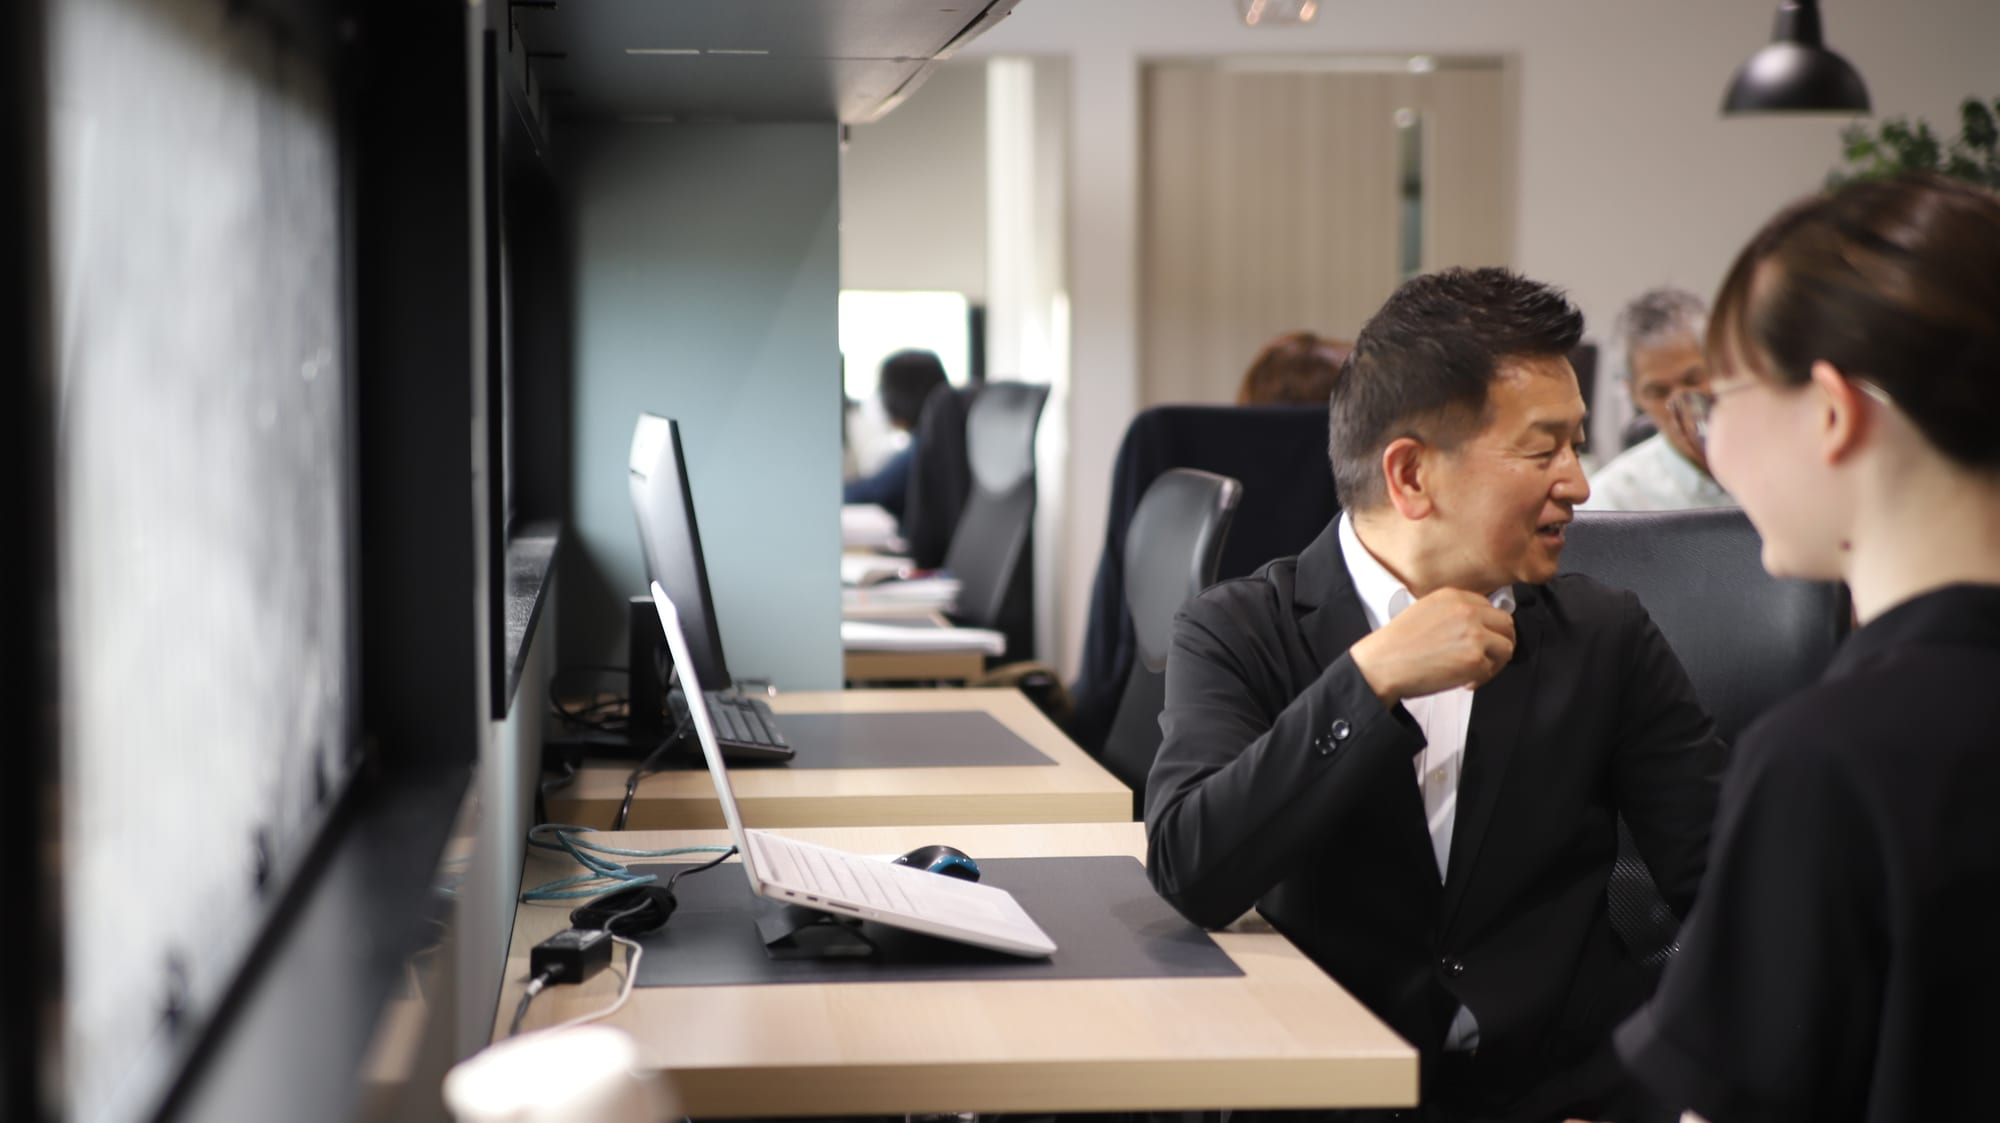
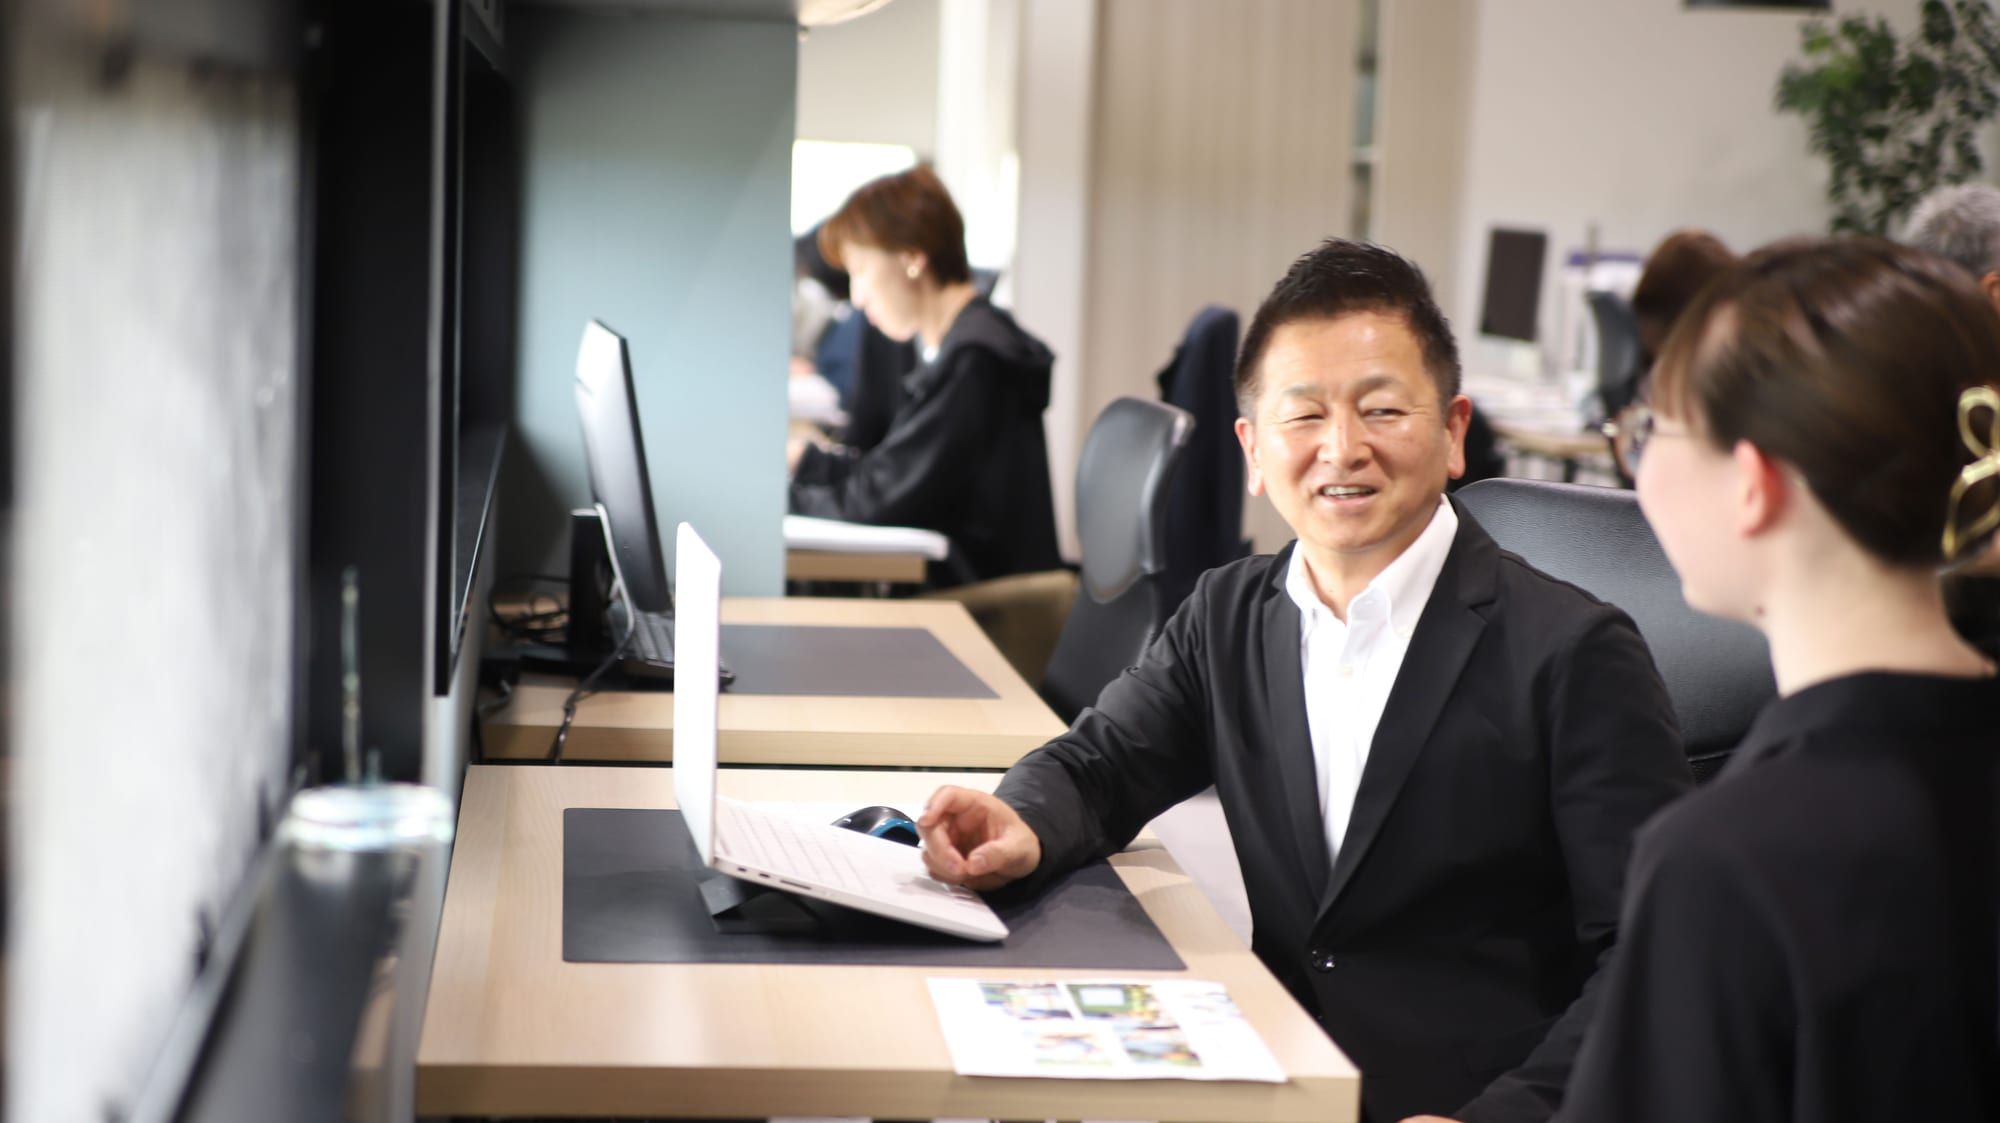
会社「社員の様子」スライダーの画像差し替えとFV1枚目の差し替え
- Home 03「社員の様子」スライダーを新規7枚(company-slide-1〜7)に変更
  (07採用セクションの画像は従来通り維持)
- FV 1枚目(fv-1.jpg)を新カットに差し替え
- 画像はWeb用に最適化(幅2000px/1000px, JPEG q82)

diff --git a/src/app/pages/Home.tsx b/src/app/pages/Home.tsx
@@ -8,11 +8,29 @@ import fvImage3 from "../../assets/fv-3.jpg";
 import companyImage1 from "../../assets/2723acada69546ad44390f5e3d6b8730eb9c9744.png";
 import companyImage2 from "../../assets/e6f7b37fca2d865e3f35dae1ac050a9f0649c3e5.png";
 import companyImage3 from "../../assets/20381856004e60259556c5cc5cb1eaa849237729.png";
+import companySlide1 from "../../assets/company-slide-1.jpg";
+import companySlide2 from "../../assets/company-slide-2.jpg";
+import companySlide3 from "../../assets/company-slide-3.jpg";
+import companySlide4 from "../../assets/company-slide-4.jpg";
+import companySlide5 from "../../assets/company-slide-5.jpg";
+import companySlide6 from "../../assets/company-slide-6.jpg";
+import companySlide7 from "../../assets/company-slide-7.jpg";
 import { contentItems, contentCategories, getCategoryColor } from "../data/contents";
 import Link from "next/link";
 
 // FV Slideshow images
 const slideshowImages = [fvImage1, fvImage2, fvImage3];
+
+// Company section (03) slider images
+const companySlideImages = [
+  { img: companySlide1, width: 440 },
+  { img: companySlide2, width: 510 },
+  { img: companySlide3, width: 440 },
+  { img: companySlide4, width: 400 },
+  { img: companySlide5, width: 440 },
+  { img: companySlide6, width: 510 },
+  { img: companySlide7, width: 440 },
+];
 
 export default function Home() {
   const [currentSlide, setCurrentSlide] = useState(0);
@@ -198,14 +216,7 @@ export default function Home() {
           <div className="flex items-center gap-6 pl-[80px] animate-scroll">
             {[...Array(2)].map((_, setIndex) => (
               <div key={setIndex} className="flex items-center gap-6 shrink-0">
-                {[
-                  { img: companyImage1, width: 440 },
-                  { img: companyImage2, width: 510 },
-                  { img: companyImage3, width: 440 },
-                  { img: companyImage1, width: 400 },
-                  { img: companyImage2, width: 440 },
-                  { img: companyImage3, width: 510 },
-                ].map((item, index) => (
+                {companySlideImages.map((item, index) => (
                   <div key={index} className="shrink-0 rounded-2xl overflow-hidden" style={{ width: `${item.width}px` }}>
                     <img src={item.img.src} alt={`社員の様子${index + 1}`} className="w-full aspect-square object-cover" />
                   </div>
